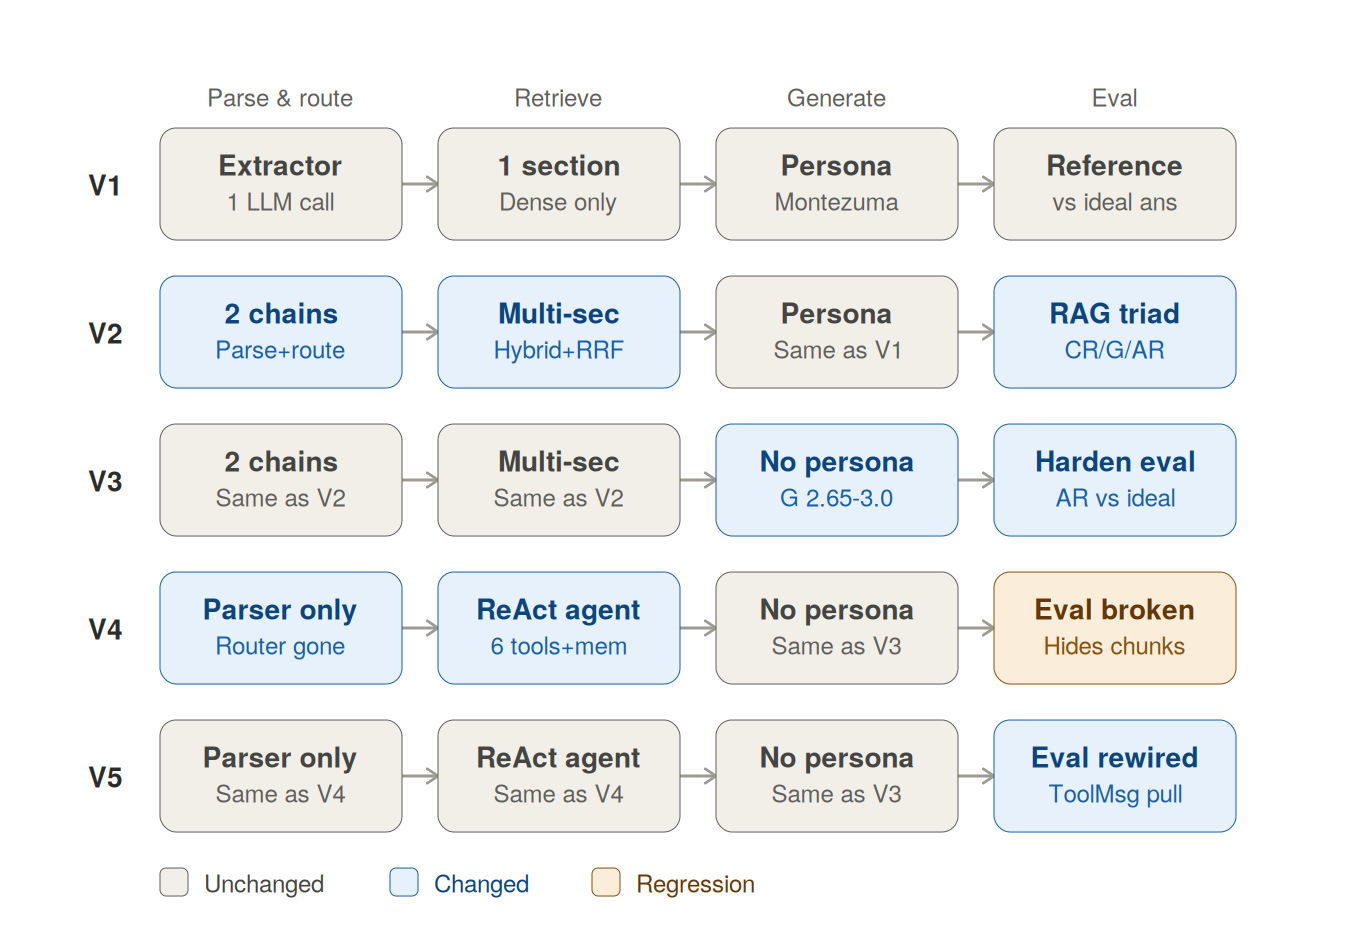
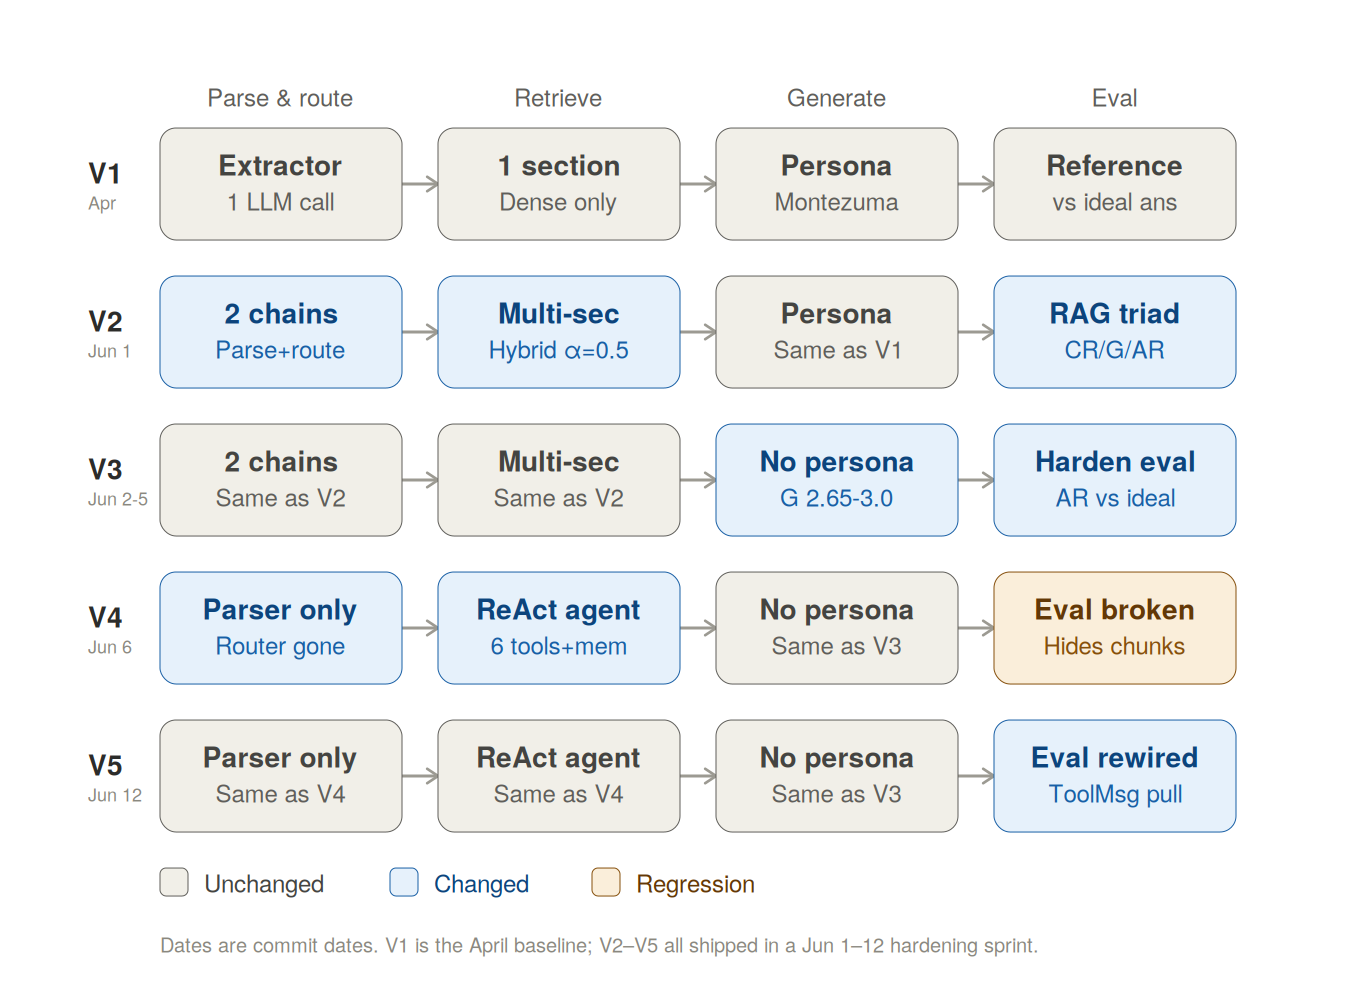
more documentation

diff --git a/docs/architecture.md b/docs/architecture.md
@@ -1,6 +1,10 @@
 # Architecture: V1 → V5
 
-This is the decision log behind the civ-rag-pipeline's five architecture versions: what problem forced each change, what alternative was considered and rejected, and what the evaluation harness measured before and after. The companion diagram and quick-reference table are in the [main README](../README.md).
+This is the decision log behind the civ-rag-pipeline: what problem forced each change, what alternative was considered and rejected, and what the evaluation harness measured before and after. The companion diagram and quick-reference table are in the [main README](../README.md).
+
+**On the version numbers.** The "V1 → V5" labels are a retrospective narrative grouping, not commit tags — they were never named as versions while the work was happening. Checked against the actual commit history, the work falls into two phases rather than five evenly spaced releases: an **April baseline** (Apr 18–29: single-call extractor, single-section dense retrieval, reference-based eval, the Montezuma persona, and a Chroma→Pinecone migration) and a **June hardening sprint** (Jun 1–12: the RAG triad, multi-section parallel + hybrid retrieval, persona removal, the two-agent split, the ReAct agent with memory, and the eval rewire). The version labels map onto that real timeline like this: V1 ≈ April; V2 ≈ Jun 1; V3 ≈ Jun 2–5; V4 ≈ Jun 6; V5 ≈ Jun 12. They're kept as a navigational layer because the diagram and README table are built on them — but the dates and commit hashes in each entry below are the ground truth.
+
+**Mechanics vs. scores.** Everything about *how the code works* in the entries below is verified against the actual commit diffs. The eval *scores* (CR/G/AR numbers) come from recorded eval runs captured in development notes, not from the diffs, which contain code rather than results — so treat the mechanics as exact and the numbers as reported-from-notes.
 
 ![Architecture evolution V1 to V5](civ_rag_evolution.png)
 
@@ -23,7 +27,7 @@ This is the decision log behind the civ-rag-pipeline's five architecture version
 - [Persona: the Montezuma voice](#persona-the-montezuma-voice)
 - [Reference eval: faithfulness and relevance vs ideal answers](#reference-eval-faithfulness-and-relevance-vs-ideal-answers)
 - [2 chains: splitting parser and router](#2-chains-splitting-parser-and-router)
-- [Multi-section retrieval with hybrid search and RRF](#multi-section-retrieval-with-hybrid-search-and-rrf)
+- [Multi-section retrieval with hybrid search](#multi-section-retrieval-with-hybrid-search)
 - [RAG triad: context relevance, groundedness, answer relevance](#rag-triad-context-relevance-groundedness-answer-relevance)
 - [Persona removed: the controlled experiment](#persona-removed-the-controlled-experiment)
 - [Hardening the triad: eval set cleanup and the answer relevance fix](#hardening-the-triad-eval-set-cleanup-and-the-answer-relevance-fix)
@@ -36,79 +40,95 @@ This is the decision log behind the civ-rag-pipeline's five architecture version
 
 ## Extractor: one combined LLM call
 
-*(V1)*
+*(April baseline)*
 
-V1 used a single `version_extractor` chain that cleaned the query, extracted the target BBG version, and routed to a content section — all in one LLM call and one prompt. It was the fastest way to ship a working pipeline and prove the retrieval concept end to end before investing in a more elaborate parsing architecture.
+The pipeline started with a single `version_extractor` chain that cleaned the query, extracted the target BBG version, and routed to a content section — all in one LLM call and one prompt. It was the fastest way to ship a working pipeline and prove the retrieval concept end to end before investing in a more elaborate parsing architecture.
 
-**What it cost:** combining three responsibilities into one call meant a failure in one (e.g. section routing) was indistinguishable from a failure in another, and hard to diagnose. Missing few-shot examples caused two specific misroutes — see [reference eval](#reference-eval-faithfulness-and-relevance-vs-ideal-answers) below — which is what eventually motivated splitting the extractor into two chains in V2.
+**What it cost:** combining three responsibilities into one call meant a failure in one (e.g. section routing) was indistinguishable from a failure in another, and hard to diagnose. Missing few-shot examples caused two specific misroutes — see [reference eval](#reference-eval-faithfulness-and-relevance-vs-ideal-answers) below — which is what eventually motivated [splitting the extractor into two chains](#2-chains-splitting-parser-and-router).
 
 ## 1 section, dense only
 
-*(V1)*
+*(Apr 22 – Apr 28, 2026 — before the two-agent split. Verified against the actual commit diffs, not reconstructed from notes, so the dates and mechanics below are exact.)*
 
-Retrieval matched the query against a single inferred content section using dense embedding similarity only. When no section could be inferred, the pipeline fell back to an unfiltered search across all sections (excluding the 17,000-entry `names` section) at k=40.
+The retriever started simpler than even this heading implies, and evolved in three concrete steps while the single-call extractor was still in place — well before the bigger two-agent rewrite below.
 
-**What it cost:** multi-section questions — "which civilization has the Ice Hockey Rink?" needs both `improvements` and `leaders` — returned answers, but degraded ones, because the unfiltered fallback let large sections dominate the similarity ranking and bury the correct chunks. This was the single largest functional gap V2 addressed.
+**Apr 22 — `section_hint` added, three-branch priority logic.** The retriever gained a `section_hint` parameter alongside the existing `version` parameter. If `version` is given, filter to that version only — `section_hint` is ignored even if present. If `version` is absent but `section_hint` is given, filter to that section only. If neither is available, fall back to an unfiltered search excluding the `names` section (a 17k-document slice of pure lookup data that otherwise dominated the similarity ranking), with `k` bumped from 25 to 40 to compensate for the wider search space. Two of the three branches use the default k=25; only the worst case gets the wider k.
+
+**Apr 24 — version and section combine instead of one overriding the other.** A fourth branch was added: when both `version` and `section_hint` are present, they're combined with an `$and` filter instead of `version` silently discarding the section information. Before this fix, a query that correctly resolved to "version 7.3, asking about units" would search all of 7.3 unfiltered by section — a real, if short-lived, gap.
+
+**Apr 28 — Chroma to Pinecone, plus dedup and version pruning.** `Chroma` (local, file-backed) was swapped for `PineconeVectorStore` (hosted, reading the index name from an environment variable), the filter syntax moved to Pinecone's operators (`$in`, `$eq`), and the same commit deduplicated entries and pruned some BBG versions — which is also why the docstring's specific document counts ("~2,400 docs," "32k to ~1,980 docs for units") were trimmed out here: they'd gone stale.
+
+**What this didn't solve:** even with version and section combinable, the design could still only filter to *one* section string at a time. A query needing two sections simultaneously — "which civilization has the Ice Hockey Rink?" needs both `improvements` and `leaders` — had no way to express that. That gap, not the version/section logic above, is what motivated the move to list-based section routing and parallel retrieval next. See [multi-section retrieval](#multi-section-retrieval-with-hybrid-search).
 
 ## Persona: the Montezuma voice
 
-*(V1, V2)*
+*(April baseline → removed Jun 2)*
 
-Responses were generated in a Montezuma persona for tone and flavor.
+Responses were generated in a Montezuma persona for tone and flavor — the generation prompt opened with "You are Montezuma of the Aztec people and also an expert in the game of Civilization 6."
 
-**What it cost:** the persona encouraged the model to add color beyond what the retrieved chunks supported — fabricated version numbers and, in one case, a mod name that doesn't exist. This was confirmed, not assumed: removing the persona in V3 and re-running the eval, rather than guessing and rewriting the prompt, moved groundedness from 2.65 to 3.0 with a one-line change. See [persona removed](#persona-removed-the-controlled-experiment).
+**What it cost:** the persona encouraged the model to add color beyond what the retrieved chunks supported — fabricated version numbers and, in one case, a mod name that doesn't exist. See [persona removed](#persona-removed-the-controlled-experiment) for how this was confirmed and fixed.
 
 ## Reference eval: faithfulness and relevance vs ideal answers
 
-*(V1)*
+*(April baseline — `ae1796d`, Apr 25)*
 
-V1's eval scored generated responses against hand-written ideal answers on two metrics, Faithfulness and Relevance, using an LLM judge on a 1–3 scale across 18 questions. Baseline: Faithfulness 2.20, Relevance 2.30, with 5 complete retrieval failures (roughly a quarter of the set returning "I don't have information about that").
+The first eval scored generated responses against hand-written ideal answers on two metrics, Faithfulness and Relevance, in a single `judge_response` LLM call on a 1–3 scale across 18 questions. Baseline: Faithfulness 2.20, Relevance 2.30, with 5 complete retrieval failures (roughly a quarter of the set returning "I don't have information about that").
 
 Root cause was missing few-shot routing examples in the extractor prompt — questions about the Migration Treaty were misrouting to `misc`, and questions about BBG Expanded were misrouting to `changelog`. Adding targeted examples for both eliminated all five failures and moved Relevance to 2.89.
 
-**The limitation that motivated V2:** Faithfulness was framed as "does the answer stick to the source material," but mechanically it compared the response to the *ideal answer*, not the retrieved chunks — so it could score well even when the model was paraphrasing the ideal answer without being grounded in what was actually retrieved. A retrieval failure and a generation failure produced an identical low score, with no way to tell which stage to fix.
+**The limitation that motivated the triad:** Faithfulness was framed as "does the answer stick to the source material," but mechanically it compared the response to the *ideal answer*, not the retrieved chunks — so it could score well even when the model was paraphrasing the ideal answer without being grounded in what was actually retrieved. A retrieval failure and a generation failure produced an identical low score, with no way to tell which stage to fix. That blind spot is what the [RAG triad](#rag-triad-context-relevance-groundedness-answer-relevance) was built to remove.
 
 ## 2 chains: splitting parser and router
 
-*(V2, V3)*
+*(`efa6f96` — between Apr 29 and Jun 1; exact date not pinned)*
 
-The single extractor was split into two chains with separate responsibilities: a Query Parser that cleans the query and extracts the target version, and a Section Router that classifies which content section(s) the query targets — returning a *list*, not a single value, which is what made multi-section retrieval possible downstream.
+The single extractor was split into two chains with separate responsibilities: a Query Parser that cleans the query and extracts the target version, and a Section Router that classifies which content section(s) the query targets — returning a *list*, not a single value, which is what made multi-section retrieval possible downstream. This commit sits in the gap between the April baseline and the June sprint; its message ("split extractor into 2 different llm responsibilities") is clear but I don't have its precise date.
 
 **Rejected alternative:** keeping a single chain and just improving its prompt. Rejected because the underlying problem wasn't prompt quality — it was that two unrelated responsibilities shared one failure surface, where a routing fix could silently break version extraction and vice versa.
 
-## Multi-section retrieval with hybrid search and RRF
+## Multi-section retrieval with hybrid search
 
-*(V2, V3)*
+*(Jun 1 — `d3026e1` fan-out, `9cf1797` hybrid + BBG v7.5)*
 
-Two changes shipped together, bundled with a required full re-ingestion: a LangGraph supervisor that fans out to one retrieval call per routed section in parallel (using the `Send` API and a reducer to merge results), and hybrid BM25 sparse + dense retrieval, merged with Reciprocal Rank Fusion.
+This shipped in two commits on the same day, in this order:
 
-**Why hybrid:** dense embeddings can miss exact game terminology — "Eagle Warrior" or "Ancestral Hall" — when the embedding drifts toward a semantically related but wrong concept. BM25 catches exact terms; dense catches paraphrased or conceptual queries. They fail in opposite directions, so both run and get merged.
+**`d3026e1` (17:49) — parallel fan-out, still dense-only.** A LangGraph supervisor (`supervise_retrieval`) fans out one retrieval call per routed section using the `Send` API — verified in the diff: it returns a list of `Send("retriever", {...})`, one per section in `section_hints`, or a single `Send` with `current_section=None` when there are none. Each `retrieval` node returns `{"documents": result}` and LangGraph merges the parallel writes on the `RetrieverState.documents` field. At this commit retrieval was still `vector_store.similarity_search(...)` through the LangChain `PineconeVectorStore` wrapper — dense-only. *(One thing I have* not *witnessed: the exact reducer annotation on `RetrieverState.documents` in `schema.py`. The fan-out requires a list-merging reducer there, but `RetrieverState` has since been deleted, so confirm the annotation from git history before claiming it's `operator.add` specifically.)*
 
-**Why RRF over combining raw scores:** dense similarity scores (~0.87) and BM25 scores (~14.3) are on incompatible scales — averaging them is meaningless. RRF merges by rank position only (`score = 1/(k + rank)`, k=60), so the scale mismatch doesn't matter.
+**`9cf1797` (23:37) — hybrid BM25 + dense.** Later that night, `hybrid_query()` replaced `similarity_search`. This dropped the LangChain `PineconeVectorStore` wrapper for the raw `Pinecone` client and `index.query(...)`, sending both a dense `vector=` and a `sparse_vector=`. The fusion is **alpha-weighted, not RRF**: the dense vector is scaled by `ALPHA` and the sparse vector by `1 - ALPHA` (`ALPHA = 0.5`, equal weight), then handed to Pinecone's native sparse-dense hybrid query in a single call. There is no reciprocal-rank step and no rank constant anywhere in the code. The same commit ingested BBG v7.5 into a new index (`PINECONE_INDEX_NAME_V2`).
 
-**Why `dotproduct` over `cosine` on the Pinecone index:** cosine doesn't support hybrid sparse-dense search; the dense embeddings are L2-normalized by default, so dotproduct is mathematically equivalent to cosine on the dense side while also enabling sparse.
+**Why hybrid:** dense embeddings can miss exact game terminology — "Eagle Warrior" or "Ancestral Hall" — when the embedding drifts toward a semantically related but wrong concept. BM25 catches exact terms; dense catches paraphrased or conceptual queries. They fail in opposite directions, so both run and get combined.
+
+**Why the raw `index.query()` instead of the LangChain `PineconeVectorStore`:** the wrapper has no way to send a sparse vector — it only does dense `similarity_search`. Hybrid search requires passing `sparse_vector=` directly, which only the raw Pinecone client exposes. (This is the corrected reason; an earlier draft attributed the switch to per-call metadata filters, but `similarity_search` handled those fine via its `filter=` argument — the real driver was sparse support.)
+
+**Why alpha-weighting:** dense cosine-style scores and BM25 scores live on incompatible scales, so they can't simply be added. Scaling each by a weight that sums to 1 (`ALPHA` / `1 - ALPHA`) lets Pinecone's hybrid index combine them in a single retrieval, and `ALPHA` becomes a tunable dial between keyword precision and semantic recall. It was hardcoded to `0.5` here and pulled into config on Jun 6 (`6cd7252`).
+
+**The index metric:** Pinecone's sparse-dense hybrid search only runs on a `dotproduct` index — it's a platform requirement, not a choice made in this file. So the working `hybrid_query()` confirms the index uses `dotproduct`, even though the metric itself is set at index-creation time in the ingester, which isn't shown in these diffs.
 
 Measured impact: context relevance reached 2.94 — near-perfect, hybrid retrieval working as intended. See [RAG triad](#rag-triad-context-relevance-groundedness-answer-relevance) below for the full before/after.
 
 ## RAG triad: context relevance, groundedness, answer relevance
 
-*(V2)*
+*(Jun 1 — `d7ce7d5`)*
 
-V1's reference-based eval was replaced with three independent LLM-as-judge evaluators, run in parallel: Context Relevance (did retrieval surface the right chunks for this query?), Groundedness (is every claim in the response supported by those chunks?), and Answer Relevance (does the response address the question asked?). Groundedness specifically replaced Faithfulness, comparing against the *retrieved chunks* rather than an ideal answer — the fix for V1's blind spot.
+The reference-based eval was replaced with three independent LLM-as-judge evaluators, run in parallel via `asyncio.gather` (which is also when the eval runner's `main()` became async): Context Relevance (did retrieval surface the right chunks for this query?), Groundedness (is every claim in the response supported by those chunks?), and Answer Relevance (does the response address the question asked?). Groundedness specifically replaced Faithfulness, comparing against the *retrieved chunks* rather than an ideal answer — the fix for the April eval's blind spot.
+
+**A detail worth getting right:** at the triad's birth, Answer Relevance judged the response against the *query* — `answer_relevance_judge(query, response)` — not against an ideal answer. It only switched to reference-based four days later (Jun 5) as a deliberate fix; see [hardening the triad](#hardening-the-triad-eval-set-cleanup-and-the-answer-relevance-fix). So the triad was not "two chunk-based judges plus one reference-based judge" from the start — that asymmetry was introduced on purpose, in response to a specific failure, rather than designed in up front.
 
 Baseline scores (17 questions): CR 2.94 / G 2.65 / AR 2.88. High context relevance paired with low groundedness pointed directly at generation — specifically the persona — as the source of the remaining failures, rather than retrieval. That diagnostic precision is the entire value of the triad over a single blended score.
 
 ## Persona removed: the controlled experiment
 
-*(V3, V4, V5)*
+*(Jun 2 — `c64bc7f`, "Removed persona because of failing grounding eval scores")*
 
-The Montezuma persona was a *hypothesis* for the groundedness failures, not an assumed cause. Rather than rewriting the prompt speculatively, the persona was removed, the eval was re-run, and groundedness was compared directly: 2.65 → 3.0, from a one-line system prompt change. Two remaining groundedness failures were a source-data conflict (two document versions describing the same ability differently) and a cross-version fabrication issue — the latter a known architectural limitation, not something a prompt change can fix.
+The Montezuma persona was a *hypothesis* for the groundedness failures, not an assumed cause. Rather than rewriting the prompt speculatively, the persona was removed and the eval re-run. The change itself is exactly one line — the prompt's opening went from "You are Montezuma of the Aztec people and also an expert in the game of Civilization 6" to "You are an expert in the game of Civilization 6," nothing else touched. Per development notes, groundedness moved 2.65 → 3.0 (those numbers are from the eval run, not visible in the diff). Two remaining groundedness failures were a source-data conflict (two document versions describing the same ability differently) and a cross-version fabrication issue — the latter a known architectural limitation, not something a prompt change can fix.
+
+The takeaway for an interview: the discipline here isn't "removed the persona," it's "treated a prompt element as a hypothesis and used the eval as the test" — a one-line change, isolated and measured, rather than a speculative rewrite bundled with other edits.
 
 ## Hardening the triad: eval set cleanup and the answer relevance fix
 
-*(V3)*
+*(Jun 5 — `631fac8` "eval adjustments")*
 
-Two further fixes shipped alongside the persona removal. First, the Answer Relevance judge had no domain context and defaulted to real-world knowledge as its baseline — it penalized "Who is Alan Turing?" for not mentioning codebreaking, which is irrelevant in a Civ 6 context. Fix: switch that one judge to compare against an ideal answer instead of the bare query, and reword the question to scope it to game mechanics.
+Two fixes, several days after the persona removal. First, the Answer Relevance judge was switched from judging against the query to judging against an ideal answer — the literal change was `answer_relevance_judge(query, response)` becoming `answer_relevance_judge(ideal_answer, response)`, and the same commit un-commented the `ideal_answer` field back into the eval-file parser to feed it. The motivation: a query-only judge has no domain context and defaults to real-world knowledge as its baseline — it penalized "Who is Alan Turing?" for not mentioning codebreaking, which is irrelevant in a Civ 6 context. Rewording that question to scope it to game mechanics was part of the same cleanup.
 
 Second, the eval set itself had structural problems independent of the judges: questions with multiple valid answers (dropped), an ideal answer narrower than the game mechanic it described (reworded), and a genuine source-data discrepancy isolated by querying the vector store directly rather than assumed to be a generation error.
 
@@ -116,34 +136,36 @@ Final scores (15 cleaned questions): CR 3.0 / G 2.80 / AR 2.93.
 
 ## Parser only: router deleted for the ReAct agent
 
-*(V4, V5)*
+*(Jun 6 — `6ebb6551`)*
 
 The Section Router chain was deleted entirely. The remaining Query Parser still cleans the query and extracts the version, but section routing is now handled implicitly by the ReAct agent choosing which tools to call.
 
 ## ReAct agent with 6 tools and cross-session memory
 
-*(V4, V5)*
+*(Jun 6 — `6ebb6551`, "replace graph pipeline with ReAct agent in generate_response")*
 
-The deterministic LangGraph supervisor was replaced with a `create_react_agent` selecting from six typed tools, each wrapping the hybrid retrieval function with a section filter: units, leaders, great people, techs & civics, buildings & improvements, and a general catch-all. The agent reasons at runtime from each tool's description rather than following a pre-classified route.
+The deterministic LangGraph supervisor was replaced with a `create_react_agent` selecting from six typed tools, each wrapping the hybrid retrieval function with a section filter: units, leaders, great people, techs & civics, buildings & improvements, and a general catch-all. The agent reasons at runtime from each tool's description rather than following a pre-classified route. The diff is a clean swap: the old `graph.invoke(...)` call plus a hand-built `ChatPromptTemplate` and `cpt | llm | StrOutputParser()` generation step were all deleted and replaced with a single `agent.invoke(...)`.
+
+**Sequencing worth being precise about:** this landed *after* the triad (Jun 1) and *after* the persona removal (Jun 2) — the agentic rewrite was not the foundation the eval work was built on, it came on top of an already-measured, already-cleaned pipeline. That ordering matters in an interview, because it means the agent's quality could be compared against a known-good deterministic baseline rather than guessed at.
 
 **Rejected alternative:** keep improving the deterministic router's classification examples. Rejected because deterministic routing has a hard ceiling — it only handles query patterns someone thought to write an example for. An agent that reasons at runtime doesn't have that ceiling.
 
-**What it cost:** less predictability and a runaway-cost risk, bounded with a per-turn recursion limit, a per-tool retrieval cap, and a per-chunk content size limit.
+**What it cost:** less predictability and a runaway-cost risk, bounded with a per-turn recursion limit, a per-tool retrieval cap, and a per-chunk content size limit (the limits were pulled into config shortly after, in `6cd7252`).
 
-The agent's state management also made cross-session memory a small addition rather than a rewrite: a `MemorySaver` checkpointer keyed by `thread_id` persists conversation state across turns and sessions — a different memory mechanism, and a different scope, than the V2 supervisor's reducer, which only accumulated results *within* a single query.
+The agent's state management also made cross-session memory a small addition rather than a rewrite, and the diff confirms they arrived in the *same commit*: `generate_response` gained a `thread_id` parameter and a `RECURSION_LIMIT` config in exactly the change that introduced the agent. A `MemorySaver` checkpointer keyed by `thread_id` persists conversation state across turns and sessions — a different memory mechanism, and a different scope, than the supervisor's reducer, which only accumulated results *within* a single query.
 
 ## The eval breaks: what going agentic costs you
 
-*(V4)*
+*(Jun 6 → Jun 12 — broken by `6ebb6551`, fixed by `600f839`)*
 
-Going agentic broke the eval pipeline, and that's a deliberate inclusion in this log rather than a detail to gloss over. The ReAct agent consumes retrieved documents inside its own reasoning loop — they're never surfaced as a return value — so `generate_response` returned only a string, and the Context Relevance and Groundedness judges had nothing to score.
+Going agentic broke the eval pipeline, and that's a deliberate inclusion in this log rather than a detail to gloss over. The diff makes the mechanism exact: in the same Jun 6 commit that introduced the agent, `generate_response`'s return type went from `tuple[str, list[Document]]` down to just `str`. The ReAct agent consumes retrieved documents inside its own reasoning loop, so the documents were no longer a return value — and the Context Relevance and Groundedness judges, which take those documents as input, had nothing to score. For six days (Jun 6–12) the eval simply couldn't run.
 
-Re-measured scores on the V4 architecture once the eval was restored (see next entry): CR 3.0 / G 2.73 / AR 2.80 — close to V3, with the small dip expected since V3's gains included a carefully cleaned eval set and persona removal already baked in.
+Re-measured scores on this architecture once the eval was restored (see next entry): CR 3.0 / G 2.73 / AR 2.80 — close to the Jun 5 numbers, with the small dip expected since those gains included a carefully cleaned eval set and persona removal already baked in.
 
 ## Eval rewired: ToolMessage extraction plus structured logging
 
-*(V5)*
+*(Jun 12 — `600f839`, "eval pipeline fixed")*
 
-Two changes. First, the eval pipeline was rewired around `ToolMessage` objects in the agent's message history — they hold the exact string each tool returned, which is precisely what the LLM saw and the correct input for a groundedness check. `generate_response` now returns the response and those chunks as a tuple, and a fresh `thread_id` is generated per eval question to prevent memory bleeding across questions in the same eval run.
+Two changes. First, the eval pipeline was rewired around `ToolMessage` objects in the agent's message history. The fix pulls them out with `[m.content for m in result["messages"] if isinstance(m, ToolMessage)]` — those contents hold the exact string each tool returned, which is precisely what the LLM saw and the correct input for a groundedness check. Note the return type became `tuple[str, list[str]]`, not `list[Document]` as before the agent — tool outputs are already-formatted strings, so the judges were updated to consume strings. The same commit also generates a fresh `thread_id` per eval question (`str(uuid4())`) so the agent's cross-session memory doesn't bleed context from one eval question into the next and quietly inflate scores.
 
 Second, the ingester gained structured JSON logging (consistent fields per log line: batch number, size, sections, versions, status, error type) and per-batch error handling, so a single Pinecone timeout no longer kills the entire ingestion run. In production, those logs would ship to a log aggregator — filtering by `status=error` and grouping by `error_type` separates a data-quality problem (failures concentrated in one section) from a connectivity problem (failures scattered across batches).

diff --git a/README.md b/README.md
@@ -1,6 +1,6 @@
 # RAG Pipeline — Civilization 6 Domain
 
-A production-grade, agentic RAG system that answers questions about the Better Game Balance (BBG) mod for Civilization VI — unit stats, leader abilities, balance changes across versions, wonders, policies, and more — with full awareness of which BBG version introduced or changed something. The system has gone through five architecture iterations, from a single-call extractor to a ReAct agent with hybrid retrieval and cross-session memory, with every change measured against a RAG triad evaluation harness rather than judged by eye (see Architecture evolution below for the full decision history).
+A production-grade, agentic RAG system that answers questions about the Better Game Balance (BBG) mod for Civilization VI — unit stats, leader abilities, balance changes across versions, wonders, policies, and more — with full awareness of which BBG version introduced or changed something. It evolved from a single-call extractor on a local vector store into a ReAct agent with hybrid retrieval and cross-session memory, with every major change measured against a RAG triad evaluation harness rather than judged by eye (see Architecture evolution below for the full, commit-dated decision history).
 
 🟢 **Live app:** [civ-chatbot-9vnbxfeptmdajugzgdzemr.streamlit.app](https://civ-chatbot-9vnbxfeptmdajugzgdzemr.streamlit.app/) *(password required)*
 
@@ -13,7 +13,7 @@ Live demo requires password due to API costs — screenshots at the bottom.
 1. **Scraping**: BeautifulSoup scrapers pull data from the BBG patch notes pages across all supported versions (`v7.1` through `v7.5`, plus `base_game`), covering units, leaders, buildings, wonders, policies, great people, changelogs, and more.
 2. **Ingestion**: Scraped entries are embedded with OpenAI's `text-embedding-3-small` model (dense vectors) and encoded with a fitted BM25 encoder (sparse vectors). Both are upserted together into a Pinecone cloud vector database per record, in batches with structured JSON logging and per-batch error handling so a single failure doesn't kill the run.
 3. **Query parsing**: At query time, a Claude-powered Query Parser cleans the user's question (fixing typos, removing explicit version references) and extracts the target BBG version. Version context is injected into the agent's input for use in tool calls.
-4. **Agentic retrieval**: A ReAct agent receives the cleaned query and reasons at runtime about which search tools to call. Six tools cover the main content sections (units, leaders, great people, techs & civics, buildings & improvements, and a general catch-all). Each tool issues a hybrid query combining dense semantic search and BM25 sparse keyword search, with version and section metadata filters applied per call, merged via Reciprocal Rank Fusion (RRF). The agent can call multiple tools in sequence when a question spans sections.
+4. **Agentic retrieval**: A ReAct agent receives the cleaned query and reasons at runtime about which search tools to call. Six tools cover the main content sections (units, leaders, great people, techs & civics, buildings & improvements, and a general catch-all). Each tool issues a hybrid query combining dense semantic search and BM25 sparse keyword search — the dense and sparse vectors are alpha-weighted (`ALPHA = 0.5`) and combined in a single Pinecone hybrid query — with version and section metadata filters applied per call. The agent can call multiple tools in sequence when a question spans sections.
 5. **Generation**: The agent synthesizes retrieved results into a response grounded in the source data.
 6. **Memory**: Conversation state is persisted across turns via a `MemorySaver` checkpointer, enabling context-aware follow-up questions without re-stating the subject.
 7. **Evaluation**: Every architecture change is measured against a RAG triad eval harness — context relevance (did retrieval surface the right chunks?), groundedness (is the response supported by those chunks?), and answer relevance (does it answer the question?) — three parallel LLM-as-judge evaluators scored against a fixed question set.
@@ -21,35 +21,35 @@ Live demo requires password due to API costs — screenshots at the bottom.
 
 ---
 
-## Architecture evolution: V1 to V5
+## Architecture evolution
 
-The pipeline went through five distinct architectures. Each change was driven by a specific, measured failure in the version before it — not a rewrite for its own sake. The diagram tracks four pipeline stages across all five versions: gray means a stage carried over unchanged, blue means a deliberate architecture decision, and amber marks the one known regression (the eval breaking when the pipeline went agentic) before it was fixed in the next version.
+Each change was driven by a specific, measured failure in the state before it — not a rewrite for its own sake. The "V1–V5" labels below are a retrospective narrative grouping rather than tagged releases: checked against the commit history, the work was really an **April baseline** (V1) and a focused **June 1–12 hardening sprint** (V2–V5). The diagram tracks four pipeline stages across those versions: gray means a stage carried over unchanged, blue means a deliberate architecture decision, and amber marks the one known regression (the eval breaking when the pipeline went agentic) before it was fixed in the next version.
 
 ![Architecture evolution V1 to V5](docs/civ_rag_evolution.png)
 
-Click through any cell below for the full reasoning behind that decision — what problem it solved, what alternative was rejected, and what the eval measured before and after:
+Click through any cell below for the full reasoning behind that decision — what problem it solved, what alternative was rejected, what the eval measured, and the commit that shipped it. The mechanics in each entry are verified against the actual diffs:
 
 | Version | Parse & route | Retrieve | Generate | Eval |
 |---|---|---|---|---|
-| **V1** | [Extractor — 1 LLM call](docs/architecture.md#extractor-one-combined-llm-call) | [1 section, dense only](docs/architecture.md#1-section-dense-only) | [Persona — Montezuma](docs/architecture.md#persona-the-montezuma-voice) | [Reference eval](docs/architecture.md#reference-eval-faithfulness-and-relevance-vs-ideal-answers) |
-| **V2** | [2 chains](docs/architecture.md#2-chains-splitting-parser-and-router) | [Multi-section, hybrid+RRF](docs/architecture.md#multi-section-retrieval-with-hybrid-search-and-rrf) | [Persona — Montezuma](docs/architecture.md#persona-the-montezuma-voice) | [RAG triad](docs/architecture.md#rag-triad-context-relevance-groundedness-answer-relevance) |
-| **V3** | [2 chains](docs/architecture.md#2-chains-splitting-parser-and-router) | [Multi-section, hybrid+RRF](docs/architecture.md#multi-section-retrieval-with-hybrid-search-and-rrf) | [No persona](docs/architecture.md#persona-removed-the-controlled-experiment) | [Triad hardened](docs/architecture.md#hardening-the-triad-eval-set-cleanup-and-the-answer-relevance-fix) |
-| **V4** | [Parser only](docs/architecture.md#parser-only-router-deleted-for-the-react-agent) | [ReAct agent, 6 tools+memory](docs/architecture.md#react-agent-with-6-tools-and-cross-session-memory) | [No persona](docs/architecture.md#persona-removed-the-controlled-experiment) | [Eval broken](docs/architecture.md#the-eval-breaks-what-going-agentic-costs-you) |
-| **V5** | [Parser only](docs/architecture.md#parser-only-router-deleted-for-the-react-agent) | [ReAct agent, 6 tools+memory](docs/architecture.md#react-agent-with-6-tools-and-cross-session-memory) | [No persona](docs/architecture.md#persona-removed-the-controlled-experiment) | [Eval rewired](docs/architecture.md#eval-rewired-toolmessage-extraction-plus-structured-logging) |
+| **V1** · Apr | [Extractor — 1 LLM call](docs/architecture.md#extractor-one-combined-llm-call) | [1 section, dense only](docs/architecture.md#1-section-dense-only) | [Persona — Montezuma](docs/architecture.md#persona-the-montezuma-voice) | [Reference eval](docs/architecture.md#reference-eval-faithfulness-and-relevance-vs-ideal-answers) |
+| **V2** · Jun 1 | [2 chains](docs/architecture.md#2-chains-splitting-parser-and-router) | [Multi-section, hybrid (α-weighted)](docs/architecture.md#multi-section-retrieval-with-hybrid-search) | [Persona — Montezuma](docs/architecture.md#persona-the-montezuma-voice) | [RAG triad](docs/architecture.md#rag-triad-context-relevance-groundedness-answer-relevance) |
+| **V3** · Jun 2–5 | [2 chains](docs/architecture.md#2-chains-splitting-parser-and-router) | [Multi-section, hybrid (α-weighted)](docs/architecture.md#multi-section-retrieval-with-hybrid-search) | [No persona](docs/architecture.md#persona-removed-the-controlled-experiment) | [Triad hardened](docs/architecture.md#hardening-the-triad-eval-set-cleanup-and-the-answer-relevance-fix) |
+| **V4** · Jun 6 | [Parser only](docs/architecture.md#parser-only-router-deleted-for-the-react-agent) | [ReAct agent, 6 tools+memory](docs/architecture.md#react-agent-with-6-tools-and-cross-session-memory) | [No persona](docs/architecture.md#persona-removed-the-controlled-experiment) | [Eval broken](docs/architecture.md#the-eval-breaks-what-going-agentic-costs-you) |
+| **V5** · Jun 12 | [Parser only](docs/architecture.md#parser-only-router-deleted-for-the-react-agent) | [ReAct agent, 6 tools+memory](docs/architecture.md#react-agent-with-6-tools-and-cross-session-memory) | [No persona](docs/architecture.md#persona-removed-the-controlled-experiment) | [Eval rewired](docs/architecture.md#eval-rewired-toolmessage-extraction-plus-structured-logging) |
 
-**Eval scores across versions:**
+**Eval scores across versions** (mechanics are commit-verified; these score numbers are from recorded eval runs):
 
 | Version | Eval approach | Questions | Scores |
 |---|---|---|---|
 | V1 | Reference-based (Faithfulness + Relevance vs ideal answers) | 18 | F 2.20 / R 2.30 baseline → R 2.89 after a routing fix; 5 → 0 retrieval failures |
-| V2 | RAG triad (CR / G / AR), parallel judges | 17 | CR 2.94 / G 2.65 / AR 2.88 |
-| V3 | RAG triad, hardened (AR switched to reference-based) | 15 | CR 3.0 / G 2.80 / AR 2.93 |
+| V2 | RAG triad (CR / G / AR), parallel judges — AR judged vs the query | 17 | CR 2.94 / G 2.65 / AR 2.88 |
+| V3 | RAG triad, hardened (AR switched to vs ideal answer) | 15 | CR 3.0 / G 2.80 / AR 2.93 |
 | V4 | RAG triad | 15 | CR 3.0 / G 2.73 / AR 2.80 |
 | V5 | RAG triad, rewired for the agent | 15 | Same architecture as V4 — eval runner now works end-to-end |
 
 *V1's Faithfulness/Relevance scores aren't directly comparable to V2–V5's triad scores — they measure against ideal answers rather than retrieved chunks. The metric change is itself part of the story: a shift from "is the output good?" to "which stage failed and why?"*
 
-Full write-up — every rejected alternative and the eval delta behind each decision — lives in [`docs/architecture.md`](docs/architecture.md).
+Full write-up — every rejected alternative, the eval delta, and the commit behind each decision — lives in [`docs/architecture.md`](docs/architecture.md).
 
 ---
 